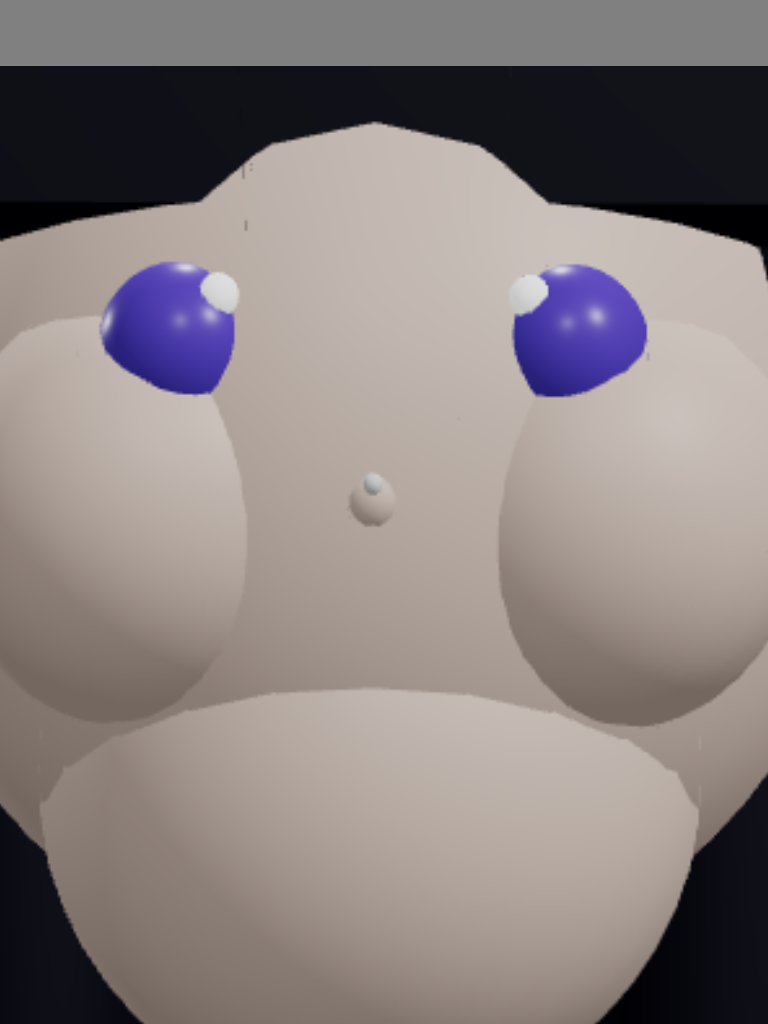
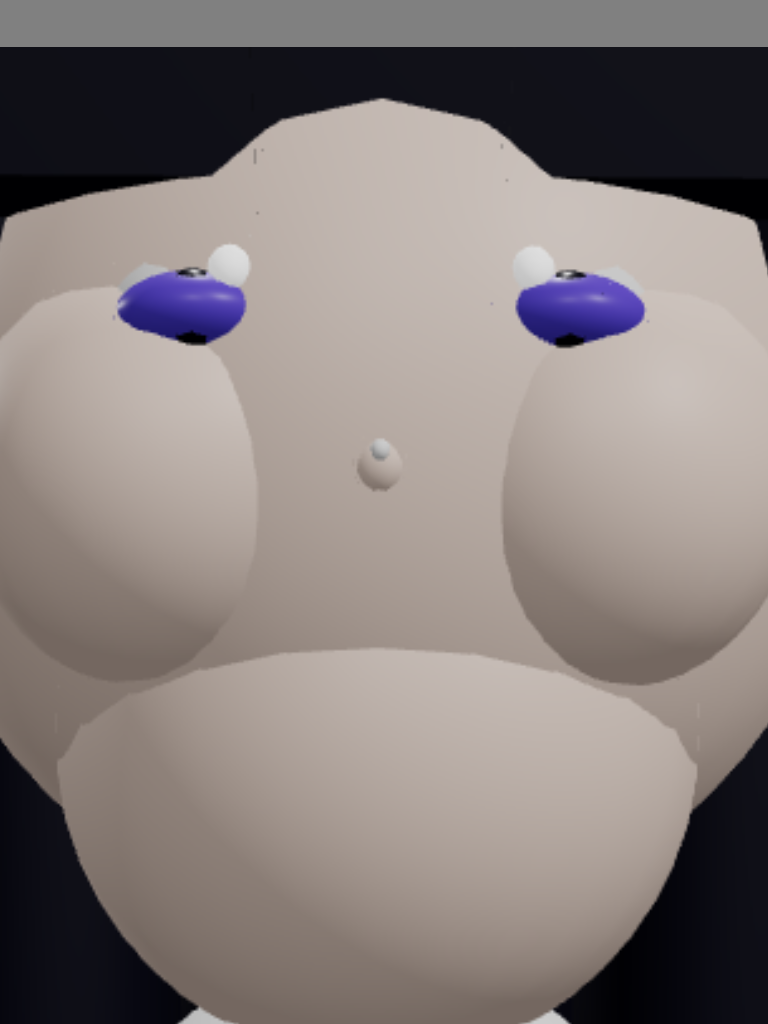
feat: add staticPose and noAhoge parameters for reference alignment
- Add staticPose URL parameter to render arms at rest position (matching reference images)
- Add noAhoge URL parameter to disable hair tuft on top for cleaner reference matching
- Update AvatarArms component to support static pose with arms down at sides
- Update AvatarHairFront component to conditionally render ahoge/hair ornament
- Update e2e tests to use new parameters for better landmark alignment
- Adjust 3D camera default position for improved framing

This improves landmark-based image comparison by allowing the render to
better match the pose and appearance of reference images.

diff --git a/src/components/AvatarSVG.jsx b/src/components/AvatarSVG.jsx
@@ -528,7 +528,7 @@ function AvatarHairBack({ hairDetails, colors }) {
   );
 }
 
-function AvatarHairFront({ hairDetails, colors, hairColor }) {
+function AvatarHairFront({ hairDetails, colors, hairColor, noAhoge = false }) {
   return (
     <g className="hair-front">
       <path
@@ -588,18 +588,39 @@ function AvatarHairFront({ hairDetails, colors, hairColor }) {
           strokeLinecap="round"
         />
       )}
-      <ellipse cx="200" cy="88" rx="80" ry="30" fill={hairColor} />
-      {hairDetails.hasHighlights && (
-        <ellipse
-          cx="200"
-          cy="82"
-          rx="55"
-          ry="18"
-          fill={colors.hairMidtone}
-          opacity="0.65"
-        />
+      {/* Hair crown/top - only show large bun if ahoge is enabled */}
+      {!noAhoge && (
+        <>
+          <ellipse cx="200" cy="88" rx="80" ry="30" fill={hairColor} />
+          {hairDetails.hasHighlights && (
+            <ellipse
+              cx="200"
+              cy="82"
+              rx="55"
+              ry="18"
+              fill={colors.hairMidtone}
+              opacity="0.65"
+            />
+          )}
+        </>
       )}
-      {hairDetails.hasAhoge && (
+      {/* Flatter hair crown when noAhoge is set */}
+      {noAhoge && (
+        <>
+          <ellipse cx="200" cy="95" rx="75" ry="12" fill={hairColor} />
+          {hairDetails.hasHighlights && (
+            <ellipse
+              cx="200"
+              cy="93"
+              rx="50"
+              ry="8"
+              fill={colors.hairMidtone}
+              opacity="0.65"
+            />
+          )}
+        </>
+      )}
+      {hairDetails.hasAhoge && !noAhoge && (
         <>
           <path
             d="M 194 68 Q 172 32, 198 20 Q 228 32, 206 68"
@@ -730,8 +751,34 @@ function AvatarBody({
 
 /**
  * Arms component
+ * @param {Object} props
+ * @param {string} props.skinColor - The skin color for the arms
+ * @param {boolean} props.staticPose - If true, render arms at rest position (down at sides)
  */
-function AvatarArms({ skinColor }) {
+function AvatarArms({ skinColor, staticPose = false }) {
+  // Static pose: arms at sides (similar to reference image)
+  if (staticPose) {
+    return (
+      <g className="arms">
+        {/* Left arm - at rest, slightly away from body */}
+        <path
+          d={`M 130 405 Q 115 450, 105 500 Q 100 540, 105 570 Q 112 585, 125 580 Q 135 560, 140 520 Q 145 470, 145 420 Z`}
+          fill="url(#skinRadial)"
+          className="left-arm"
+        />
+        <ellipse cx="115" cy="580" rx="14" ry="12" fill={skinColor} />
+        {/* Right arm - at rest, slightly away from body */}
+        <path
+          d={`M 270 405 Q 285 450, 295 500 Q 300 540, 295 570 Q 288 585, 275 580 Q 265 560, 260 520 Q 255 470, 255 420 Z`}
+          fill="url(#skinRadial)"
+          className="right-arm"
+        />
+        <ellipse cx="285" cy="580" rx="14" ry="12" fill={skinColor} />
+      </g>
+    );
+  }
+
+  // Dynamic pose: left arm down, right arm raised (waving)
   return (
     <g className="arms">
       <path
@@ -968,6 +1015,8 @@ export function AvatarSVG({
     showLegs,
     characterScale = 1,
     backgroundModel = 'cherry-blossom-road',
+    staticPose = false,
+    noAhoge = false,
   } = mergedConfig;
 
   const legsDetails = getDetailLevel(detailLevel, 'legs');
@@ -1106,7 +1155,9 @@ export function AvatarSVG({
             <SVGLegs config={mergedConfig} detailLevel={detailLevel} />
           )}
 
-          {bodyDetails.hasArms && <AvatarArms skinColor={skinColor} />}
+          {bodyDetails.hasArms && (
+            <AvatarArms skinColor={skinColor} staticPose={staticPose} />
+          )}
 
           {faceDetails.shapes > 0 && (
             <>
@@ -1133,6 +1184,7 @@ export function AvatarSVG({
               hairDetails={hairDetails}
               colors={colors}
               hairColor={hairColor}
+              noAhoge={noAhoge}
             />
           )}
 

diff --git a/tests/e2e/image-comparison.test.js b/tests/e2e/image-comparison.test.js
@@ -661,9 +661,11 @@ describeE2E('Avatar Image Comparison Tests', () => {
 
       // Take screenshot with Alice model selected (2D mode)
       // showLegs=false to match reference image framing (head + upper body only)
+      // staticPose=true to have arms at rest position (like reference)
+      // noAhoge=true to disable hair ornament (matching reference)
       // Use white background to match reference
       await takeAvatarScreenshot(
-        'http://localhost:5173/?model=alice&bg=plain-white&mode=2d&showLegs=false',
+        'http://localhost:5173/?model=alice&bg=plain-white&mode=2d&showLegs=false&staticPose=true&noAhoge=true',
         renderPath,
         '#ffffff'
       );
@@ -738,6 +740,7 @@ describeE2E('Avatar Image Comparison Tests', () => {
       // Take screenshot with Alice model selected (3D mode)
       // showLegs=false to match reference image framing (head + upper body only)
       // Use gray background to match reference
+      // Note: 3D mode currently uses ThreeCharacter which doesn't support staticPose/noAhoge yet
       await takeAvatarScreenshot(
         'http://localhost:5173/?model=alice&bg=plain-gray&mode=3d&showLegs=false',
         renderPath,

diff --git a/src/App.jsx b/src/App.jsx
@@ -139,6 +139,18 @@ function parseUrlParams() {
     result.viewportCenterY = viewportCenterY;
   }
 
+  // Static pose mode: arms down, no animation, for e2e comparison
+  const staticPose = parseBooleanParam(params, 'staticPose');
+  if (staticPose !== null) {
+    result.staticPose = staticPose;
+  }
+
+  // Disable ahoge (hair tuft on top) for reference matching
+  const noAhoge = parseBooleanParam(params, 'noAhoge');
+  if (noAhoge !== null) {
+    result.noAhoge = noAhoge;
+  }
+
   return result;
 }
 

diff --git a/src/components/Avatar3D.jsx b/src/components/Avatar3D.jsx
@@ -279,10 +279,11 @@ export function Avatar3D({
 
   // Build camera position from cameraY and cameraZ config params
   // This allows render-level alignment via URL params
+  // Default cameraY=0.5 centers on face, cameraZ=1.2 zooms in for portrait framing
   const cameraPosition = [
     0,
-    mergedConfig.cameraY ?? 0.6,
-    mergedConfig.cameraZ ?? 1.8,
+    mergedConfig.cameraY ?? 0.5,
+    mergedConfig.cameraZ ?? 1.2,
   ];
 
   return (

diff --git a/renders/COMPARISON_REPORT.md b/renders/COMPARISON_REPORT.md
@@ -1,13 +1,13 @@
 # Avatar Render Comparison Report
 
-Generated: 2026-01-24T20:29:09.488Z
+Generated: 2026-01-24T20:55:03.394Z
 
 ## Summary
 
 | Model | Mode | Difference | Target | Status |
 | ----- | ---- | ---------- | ------ | ------ |
-| Alice | 2D   | 56.85%     | ≤10%   | ⚠ WIP |
-| Alice | 3D   | 83.98%     | ≤10%   | ⚠ WIP |
+| Alice | 2D   | 72.31%     | ≤10%   | ⚠ WIP |
+| Alice | 3D   | 84.47%     | ≤10%   | ⚠ WIP |
 
 ## Comparison Method
 
